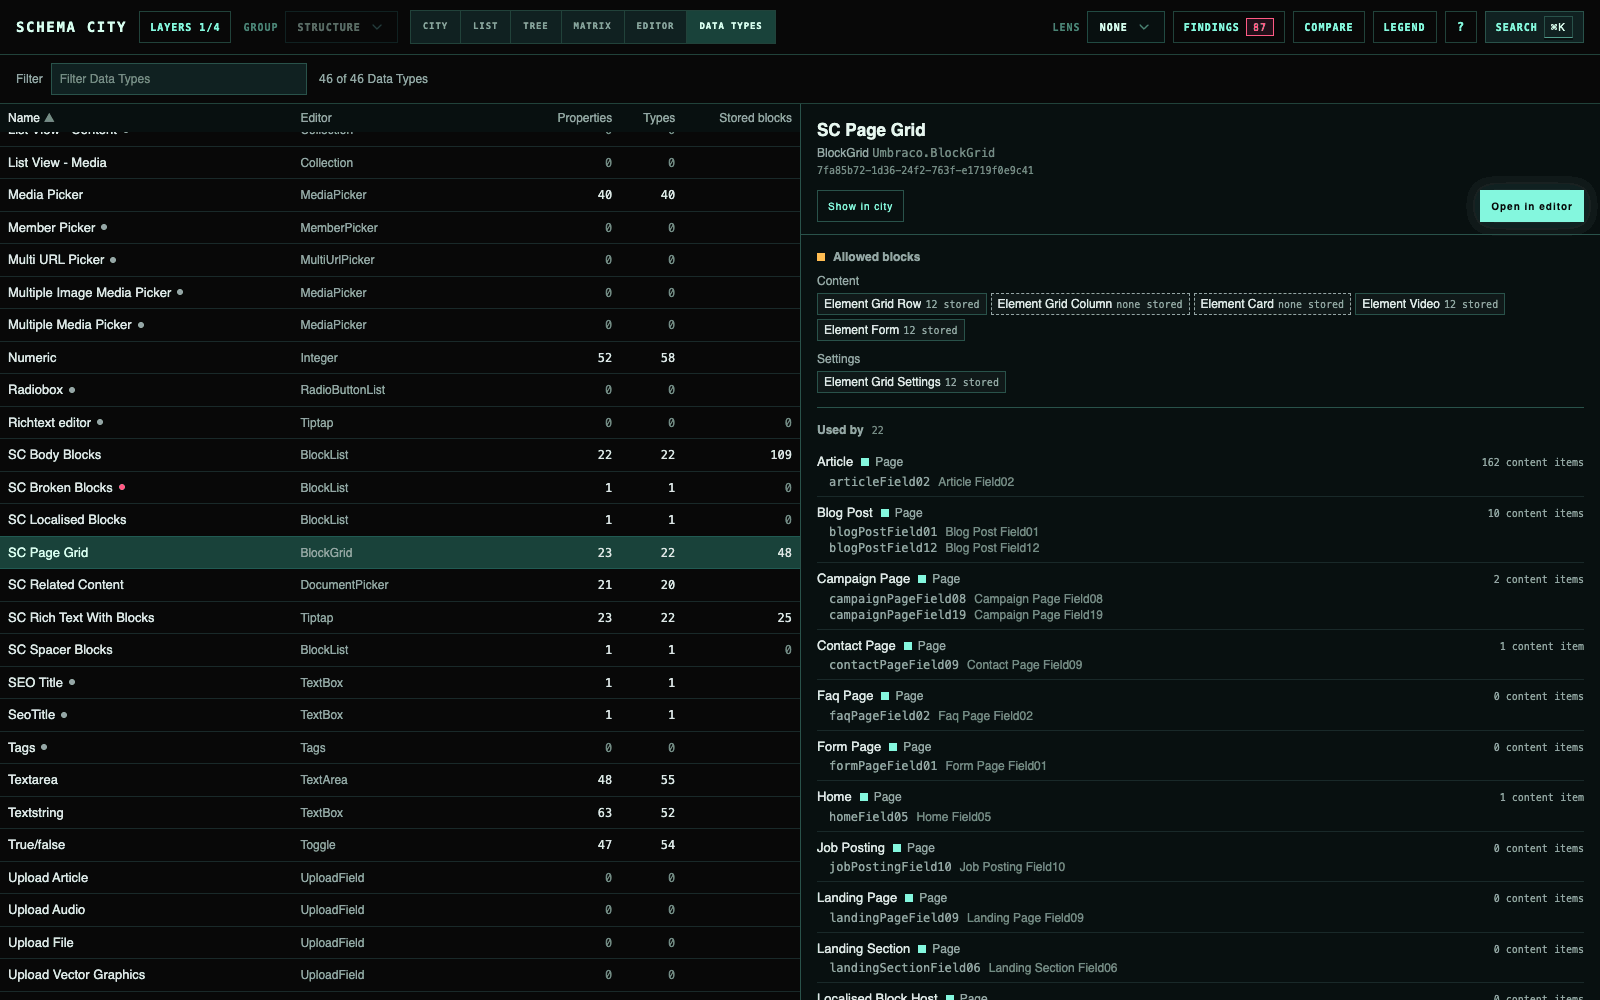
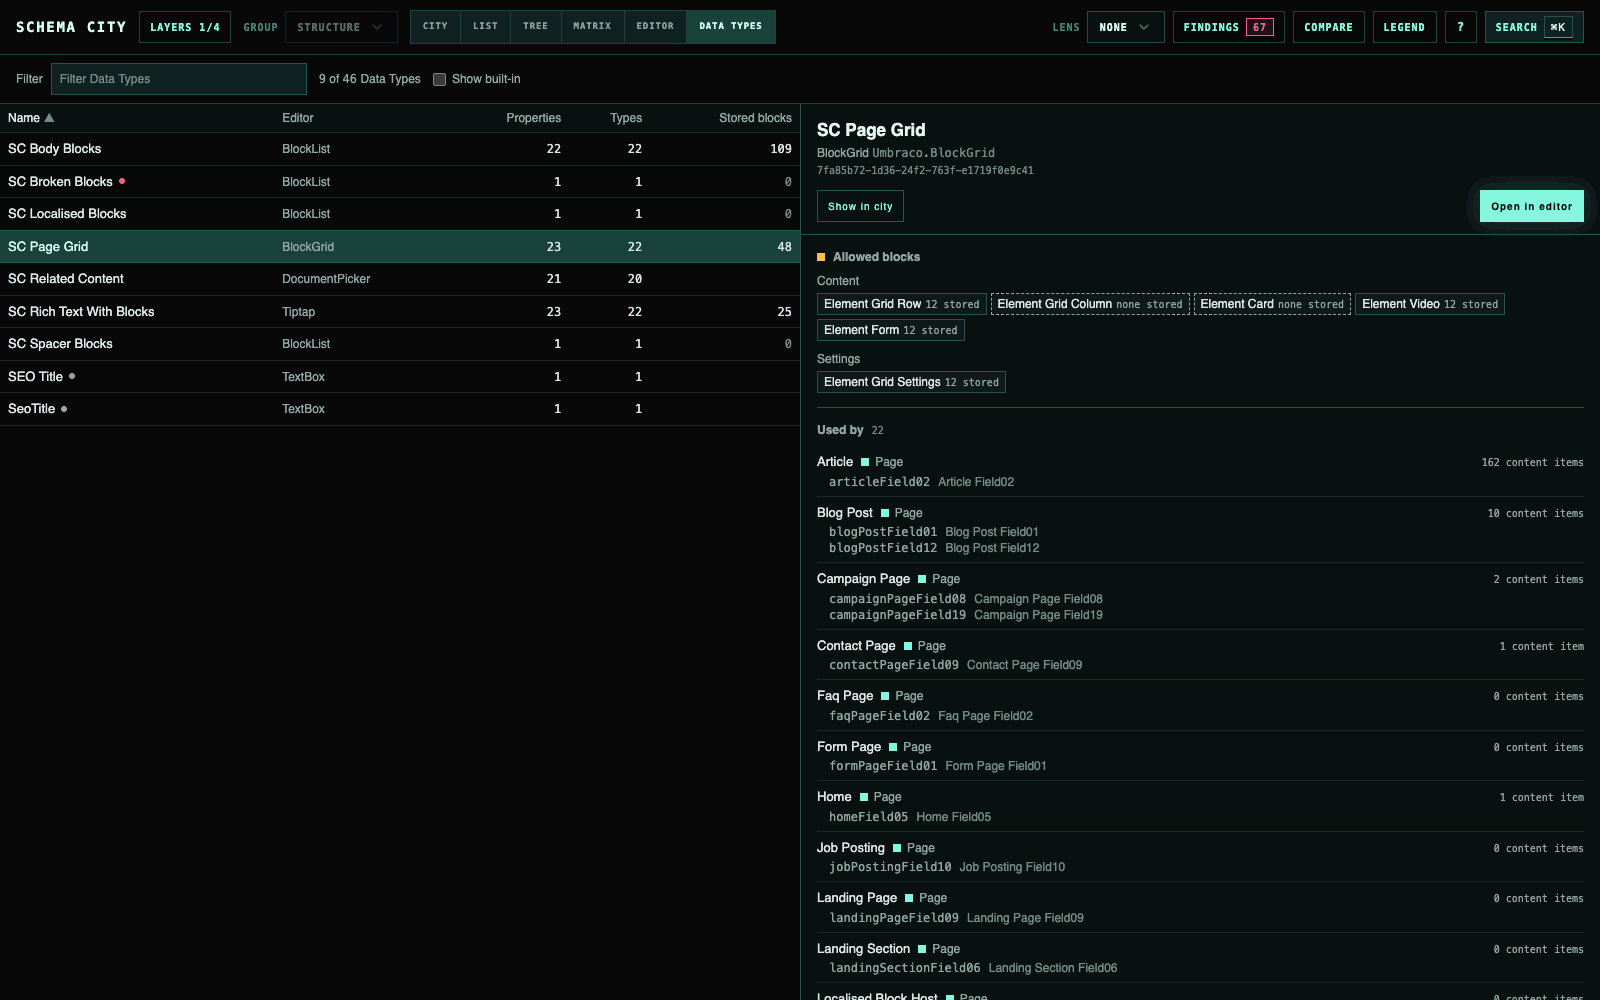
feat: hide built-in Data Types from the list behind a Show built-in switch

diff --git a/src/SchemaCity/Client/src/app/DataTypes.tsx b/src/SchemaCity/Client/src/app/DataTypes.tsx
@@ -81,10 +81,18 @@ export function DataTypes(props: DataTypesProps) {
   const { graph, usage, findings, selected, onChoose } = props;
   const [query, setQuery] = useState("");
   const [sort, toggle] = useSort<SortKey>();
+  // Umbraco's own Data Types are a dozen rows every site has, so they wait behind
+  // the checkbox. One a link chose stays in the list, so the page has its row.
+  const [builtIn, setBuiltIn] = useState(false);
   const rows = useMemo(() => dataTypeIndex(graph, usage), [graph, usage]);
   const shown = useMemo(
-    () => sortRows(matchDataTypes(rows, query), sort.key, sort.ascending),
-    [rows, query, sort]
+    () =>
+      sortRows(
+        matchDataTypes(rows, query, { builtIn, keep: selected }),
+        sort.key,
+        sort.ascending
+      ),
+    [rows, query, sort, builtIn, selected]
   );
   const flagged = useMemo(() => {
     const out = new Map<string, Finding[]>();
@@ -112,22 +120,16 @@ export function DataTypes(props: DataTypesProps) {
 
   return (
     <div className="@container flex h-full flex-col bg-background font-sans text-[13px] text-prose leading-normal">
-      <div className="flex flex-wrap items-center gap-x-3 gap-y-1 border-line border-b px-4 py-2">
-        <FilterField
-          onQuery={setQuery}
-          placeholder="Filter Data Types"
-          query={query}
-        />
-        <p className="text-label text-xs">
-          <span className="font-mono">{shown.length}</span> of{" "}
-          <span className="font-mono">{rows.length}</span> Data Types
-        </p>
-        {graph.dataTypes ? null : (
-          <p className="text-label text-xs">
-            This schema lists only the Data Types its properties use.
-          </p>
-        )}
-      </div>
+      <ListToolbar
+        builtIn={builtIn}
+        hasBuiltIn={rows.some((row) => row.isBuiltIn)}
+        listsAll={Boolean(graph.dataTypes)}
+        onBuiltIn={setBuiltIn}
+        onQuery={setQuery}
+        query={query}
+        shown={shown.length}
+        total={rows.length}
+      />
       <div className="grid min-h-0 flex-1 grid-rows-[minmax(0,2fr)_minmax(0,3fr)] @min-[760px]:grid-cols-2 @min-[760px]:grid-rows-1">
         <Scroller label="Data Type list">
           <table className="w-full border-collapse" ref={list}>
@@ -179,6 +181,57 @@ export function DataTypes(props: DataTypesProps) {
   );
 }
 
+/** The filter, the count, the built-in switch, and a note for a graph with no list. */
+function ListToolbar({
+  query,
+  onQuery,
+  shown,
+  total,
+  builtIn,
+  onBuiltIn,
+  hasBuiltIn,
+  listsAll,
+}: {
+  query: string;
+  onQuery: (query: string) => void;
+  shown: number;
+  total: number;
+  builtIn: boolean;
+  onBuiltIn: (on: boolean) => void;
+  hasBuiltIn: boolean;
+  listsAll: boolean;
+}) {
+  return (
+    <div className="flex flex-wrap items-center gap-x-3 gap-y-1 border-line border-b px-4 py-2">
+      <FilterField
+        onQuery={onQuery}
+        placeholder="Filter Data Types"
+        query={query}
+      />
+      <p className="text-label text-xs">
+        <span className="font-mono">{shown}</span> of{" "}
+        <span className="font-mono">{total}</span> Data Types
+      </p>
+      {hasBuiltIn ? (
+        <label className="flex items-center gap-1.5 text-label text-xs">
+          <input
+            checked={builtIn}
+            className="accent-phosphor"
+            onChange={(event) => onBuiltIn(event.target.checked)}
+            type="checkbox"
+          />
+          Show built-in
+        </label>
+      ) : null}
+      {listsAll ? null : (
+        <p className="text-label text-xs">
+          This schema lists only the Data Types its properties use.
+        </p>
+      )}
+    </div>
+  );
+}
+
 /**
  * One Data Type in the list, with a dot for its findings: pink when one is a
  * problem, grey for notes only, and the kinds on hover.
@@ -220,6 +273,11 @@ function ListRow({
           >
             {row.name}
           </button>
+          {row.isBuiltIn ? (
+            <span className={`text-2xs ${on ? "text-label" : "text-faint"}`}>
+              built-in
+            </span>
+          ) : null}
           {findings.length > 0 ? (
             <FindingDot
               severity={problem ? "problem" : "note"}
@@ -327,6 +385,7 @@ function DetailHeader({
       <p className="mt-0.5 break-all font-mono text-2xs text-faint">
         {dataType.id}
         {dataType.folder ? ` · in ${dataType.folder}` : ""}
+        {dataType.isBuiltIn ? " · built-in" : ""}
       </p>
       <div className="mt-3 flex flex-wrap gap-2">
         <Button

diff --git a/src/SchemaCity/Client/src/model/data-types.ts b/src/SchemaCity/Client/src/model/data-types.ts
@@ -221,16 +221,25 @@ export function allowedBlocks(
   };
 }
 
-/** Rows whose name, editor or key contains the query, ignoring case. */
+/**
+ * Rows whose name, editor or key contains the query, ignoring case. Umbraco's own
+ * Data Types are left out unless `builtIn` asks for them, except the `keep` row,
+ * which a link chose and whose page is open.
+ */
 export function matchDataTypes(
   rows: DataTypeRow[],
-  query: string
+  query: string,
+  {
+    builtIn = true,
+    keep = null,
+  }: { builtIn?: boolean; keep?: string | null } = {}
 ): DataTypeRow[] {
   const needle = query.trim().toLowerCase();
-  if (needle === "") return rows;
-  return rows.filter((row) =>
-    [row.name, row.editorAlias, row.editorUiAlias ?? "", row.id].some((text) =>
-      text.toLowerCase().includes(needle)
-    )
+  return rows.filter(
+    (row) =>
+      (builtIn || !row.isBuiltIn || row.id === keep) &&
+      [row.name, row.editorAlias, row.editorUiAlias ?? "", row.id].some(
+        (text) => text.toLowerCase().includes(needle)
+      )
   );
 }

diff --git a/src/SchemaCity/Client/src/model/data-types.test.ts b/src/SchemaCity/Client/src/model/data-types.test.ts
@@ -188,6 +188,19 @@ it("filters by name, editor or key and sorts by any column", () => {
     "text",
   ]);
   expect(matchDataTypes(rows, " ").length).toBe(3);
+  // Built-ins wait behind the switch, except the one whose page is open.
+  const withBuiltIn = rows.map((row) =>
+    row.id === "spare" ? { ...row, isBuiltIn: true } : row
+  );
+  const ids = (options: { builtIn?: boolean; keep?: string | null }) =>
+    matchDataTypes(withBuiltIn, "", options).map((row) => row.id);
+  expect(ids({ builtIn: false })).toEqual(["blocks", "text"]);
+  expect(ids({ builtIn: false, keep: "spare" })).toEqual([
+    "blocks",
+    "spare",
+    "text",
+  ]);
+  expect(ids({ builtIn: true })).toHaveLength(3);
   expect(sortRows(rows, "types", false).map((row) => row.id)).toEqual([
     "text",
     "blocks",

diff --git a/PLAN.md b/PLAN.md
@@ -607,8 +607,8 @@ Done 2026-10-07 on `m8/data-types`, after two user tests named Data Types and st
 
 - Contract: `SchemaGraph.dataTypes` lists every Data Type, unused ones included, with editor aliases, folder path, block and picker targets (missing keys kept), `otherUses` (Media and Member Type properties and collection views, which have no node) and a small configuration summary. Optional on the client, so older snapshots import; `parseSnapshot` validates it.
 - Usage: `UsageReport.blocks` counts stored block instances per Data Type and Element Type, as content and settings, with the content items involved. One streamed query over `umbracoPropertyData` for block editor values on the current version of every document outside the recycle bin, parsed by `BlockCounter` for the 14+ and older shapes, nested values credited to their own Data Type through a property lookup. Capped at 50,000 values and five seconds, after which `partial` is set; a failure leaves the rest of the report standing. 65 values in 7 ms on the seeded site.
-- Seed: the first articles store body blocks, a grid row with two area items and rich text blocks, only of Element Types without a mandatory property; seed version 2026-10-07.2.
-- Findings: `unusedDataType` (note, a finding with no `nodeId`, id `unusedDataType:<key>`), `orphanedBlocks` (problem, replaces `unusedElementType` once stored blocks exist), stored counts as evidence on `unusedElementType` and `brokenBlock`, and `dataTypeIds` on every finding that names a Data Type. On the seeded site with usage: 20 unused Data Types, no orphaned blocks.
+- Seed: the first articles store body blocks, a grid row with two area items and rich text blocks, only of Element Types without a mandatory property; seed version 2026-10-07.3.
+- Findings: `unusedDataType` (note, a finding with no `nodeId`, id `unusedDataType:<key>`), `orphanedBlocks` (problem, replaces `unusedElementType` once stored blocks exist), stored counts as evidence on `unusedElementType` and `brokenBlock`, and `dataTypeIds` on every finding that names a Data Type. The server marks built-in Data Types (`isBuiltIn`, read by reflection from `Constants.DataTypes.Guids`, 37 on the seeded site), which the unused rule skips and the list hides behind Show built-in. On the seeded site with usage: 67 findings, no unused Data Types, no orphaned blocks.
 - View: `view=datatypes&dataType=<key>`, a sortable, filterable table beside a page per Data Type, Show in city through a binary lens scale, and links from the Matrix, Editor, inspector, Compare and findings. No shortcut key: D pans.
 
 ### Later, explicitly not v1

diff --git a/README.md b/README.md
@@ -153,7 +153,8 @@ headless by design, and on a type already reported as unused.
   It takes the place of the unused Element Type row once usage has loaded, names the Data Types
   the blocks are stored in, and is a problem.
 - Unused Data Type: a Data Type no property on a Document, Media or Member Type uses, and no
-  collection view either. It is a note about the Data Type itself and opens its page.
+  collection view either. The Data Types Umbraco installs itself are left out, since every site has
+  a dozen it never uses. It is a note about the Data Type itself and opens its page.
 
 Once usage has loaded, an unused Element Type row says how many blocks of it content stores, and a
 broken block row says how many blocks of the missing Element Type content still holds. Rows that
@@ -238,11 +239,13 @@ group with such a row carries a dot. Choose Editor layout in the inspector to op
 
 Data Types lists every Data Type in the site, the unused ones included, with its editor, how many
 properties use it, on how many types, and the blocks content stores in it. A dot marks one a check
-flagged. Sort by any column and filter by name, editor or key. Choose one to read its page beside
-the list, or under it when the room is narrow; the URL keeps it as `dataType=<key>`. Every Data
-Type name elsewhere in the app opens this page: the Matrix's Data Types column headings, the
-Editor view's property rows, the inspector's Properties tab and block and picker sections, Data
-Type changes in Compare, and findings that name a Data Type.
+flagged. Sort by any column and filter by name, editor or key. The Data Types Umbraco installs
+itself are marked built-in and stay out of the list until you tick Show built-in, except one a link
+has opened. Choose one to read its page beside the list, or under it when the room is narrow; the
+URL keeps it as `dataType=<key>`. Every Data Type name elsewhere in the app opens this page: the
+Matrix's Data Types column headings, the Editor view's property rows, the inspector's Properties
+tab and block and picker sections, Data Type changes in Compare, and findings that name a Data
+Type.
 
 The page shows the editor's UI alias, its editor alias and its key, and Open in editor opens the
 Data Type in the backoffice. A block editor lists the Element Types it offers as content and as
